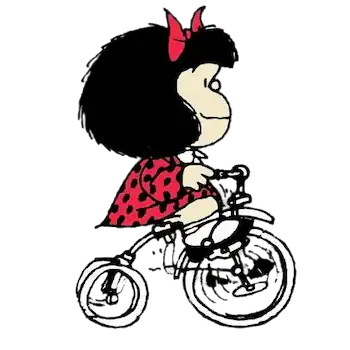
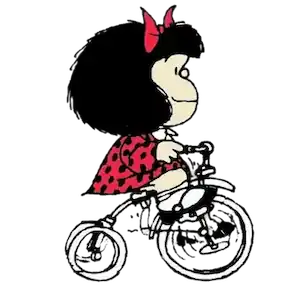
- Cambio formato y tamaño imágenes - Minimización CSS

diff --git a/styles.css b/styles.css
@@ -118,8 +118,7 @@ nav {
         border-radius: 10px;
     }
 
-    li a,
-    li a:hover {
+    li a {
         padding: 5px;
     }
 
@@ -193,7 +192,6 @@ nav {
 
     #hero img {
         width: 20rem;
-        height: auto;
     }
 
     #hero h1 {
@@ -209,7 +207,6 @@ nav {
 
     #hero img {
         width: 35vw;
-        height: auto;
     }
 
     #hero a {
@@ -221,7 +218,6 @@ nav {
 
     #hero img {
         width: 25vw;
-        height: auto;
     }
 
     #hero h1 {
@@ -328,7 +324,7 @@ nav {
     padding: 1.5rem;
     border-radius: 5px;
     gap: 8px;
-    border: 3px dashed;
+    border: 3px dashed var(--acento);
 }
 
 #secciones,
@@ -363,63 +359,36 @@ nav {
 }
 
 .educacion {
+    --acento: var(--rojo);
     background-color: #ffc6c6;
-    border-color: var(--rojo);
     z-index: 3;
 }
 
-.educacion img,
-.educacion h3::after {
-    background-color: var(--rojo);
-}
-
-.educacion h3 {
-    color: var(--rojo);
-}
-
 .alimentacion {
+    --acento: var(--amarillo);
     background-color: #fff2c2;
-    border-color: var(--amarillo);
     z-index: 2;
 }
 
-.alimentacion img,
-.alimentacion h3::after {
-    background-color: var(--amarillo);
-}
-
-.alimentacion h3 {
-    color: var(--amarillo);
-}
-
 .after-school {
+    --acento: var(--verde);
     background-color: #d9ffd1;
-    border-color: var(--verde);
     z-index: 1;
 }
 
-.after-school img,
-.after-school h3::after {
-    background-color: var(--verde);
-}
-
-.after-school h3 {
-    color: var(--verde);
-}
-
 .celebraciones {
+    --acento: var(--azul);
     background-color: #d0e9ff;
-    border-color: var(--azul);
     z-index: 0;
 }
 
-.celebraciones img,
-.celebraciones h3::after {
-    background-color: var(--azul);
+.seccion img,
+.seccion h3::after {
+    background-color: var(--acento);
 }
 
-.celebraciones h3 {
-    color: var(--azul);
+.seccion h3 {
+    color: var(--acento);
 }
 
 #bici,
@@ -431,7 +400,6 @@ nav {
 #bici {
     display: flex;
     height: 30vh;
-    width: auto;
 }
 
 #amigos {
@@ -451,7 +419,6 @@ nav {
 
     .seccion {
         padding-block: 2rem;
-        padding-inline: 1.5rem;
     }
 
     #bici {
@@ -473,7 +440,6 @@ nav {
 
     #amigos {
         width: 70%;
-        height: auto;
     }
 }
 
@@ -500,7 +466,6 @@ nav {
 
     #amigos {
         width: 50%;
-        height: auto;
     }
 }
 
@@ -604,6 +569,7 @@ nav {
 
 .table p {
     font-size: 1.5rem;
+    color: #000;
 }
 
 .table h3,
@@ -619,10 +585,6 @@ nav {
 
 .table h3 {
     background-color: var(--verde);
-}
-
-.table p {
-    color: #000;
 }
 
 .table div p:nth-child(2) {
@@ -701,7 +663,7 @@ nav {
 
     #tables {
         margin-inline: 3rem;
-        gap: 0rem;
+        gap: 0;
     }
 }
 
@@ -718,8 +680,7 @@ nav {
 
 .item {
     align-items: center;
-    padding-block: 1rem;
-    padding-inline: 0.5rem;
+    padding: 1rem 0.5rem;
     border-radius: 10px;
     text-align: center;
 }
@@ -735,10 +696,6 @@ nav {
     margin-bottom: 0.5rem;
     width: 3rem;
     height: 3rem;
-}
-
-.item h3 {
-    font-size: 1.8rem;
 }
 
 .item p {
@@ -789,7 +746,7 @@ iframe {
     width: 100%;
     height: 50vh;
     border-radius: 5px;
-    box-shadow: 0px 1px 3px 0px rgba(0, 0, 0, 0.423);
+    box-shadow: 0 1px 3px rgba(0, 0, 0, 0.423);
 }
 
 @media (min-width: 576px) {
@@ -797,8 +754,7 @@ iframe {
     #items {
         display: grid;
         grid-template-columns: 1fr 1fr;
-        gap: 2rem;
-        row-gap: 1rem;
+        gap: 1rem 2rem;
     }
 
     #items>* {
@@ -889,8 +845,7 @@ footer ul {
 footer ul li {
     display: flex;
     font-size: 1.1rem;
-    margin-inline: 1rem;
-    margin-block: 1rem;
+    margin: 1rem;
     gap: 5px;
 }
 

diff --git a/index.html b/index.html
@@ -100,7 +100,7 @@
                 </div>
             </div>
 
-            <img src="assets/ofrecemos/mafalda_bici.webp" id="bici" alt="mafalda en bicicleta" loading="lazy">
+            <img src="assets/ofrecemos/mafalda_bici.avif" id="bici" alt="mafalda en bicicleta" loading="lazy">
 
             <img src="assets/ofrecemos/mafalda_amigos.webp" id="amigos" alt="mafalda y amigos" loading="lazy">
         </div>
@@ -190,7 +190,7 @@
                     </div>
                 </div>
 
-                <img src="assets/jornadas/mafalda-jornada.png" alt="mafalda amigos" loading="lazy">
+                <img src="assets/jornadas/mafalda-jornada.webp" alt="mafalda amigos" loading="lazy">
             </div>
         </div>
 
